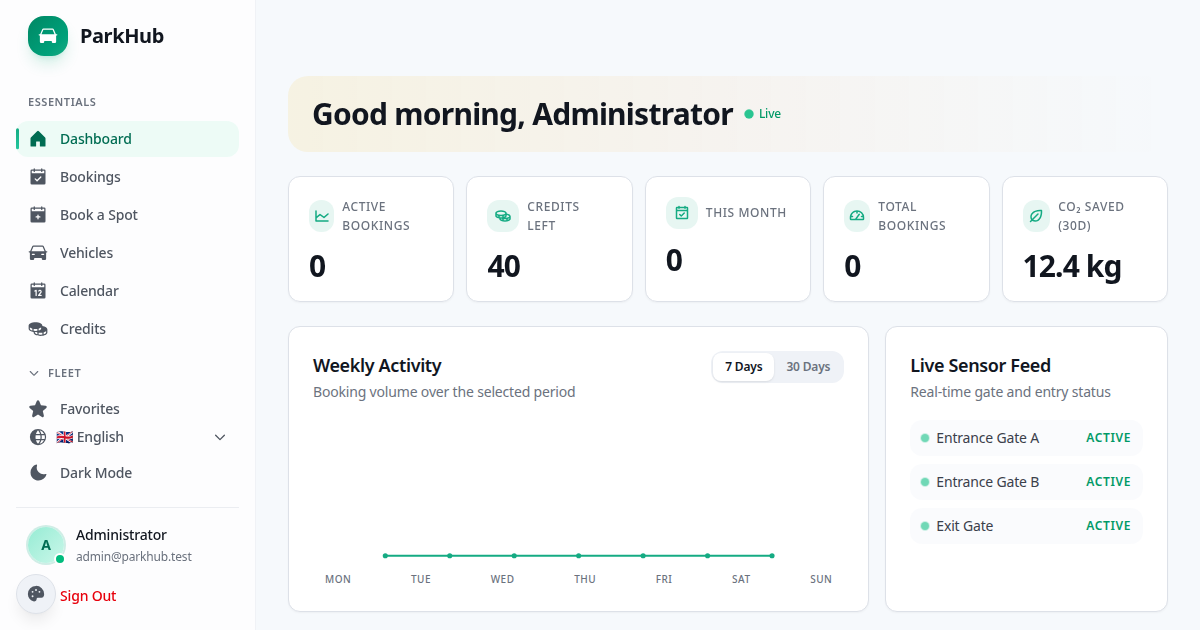
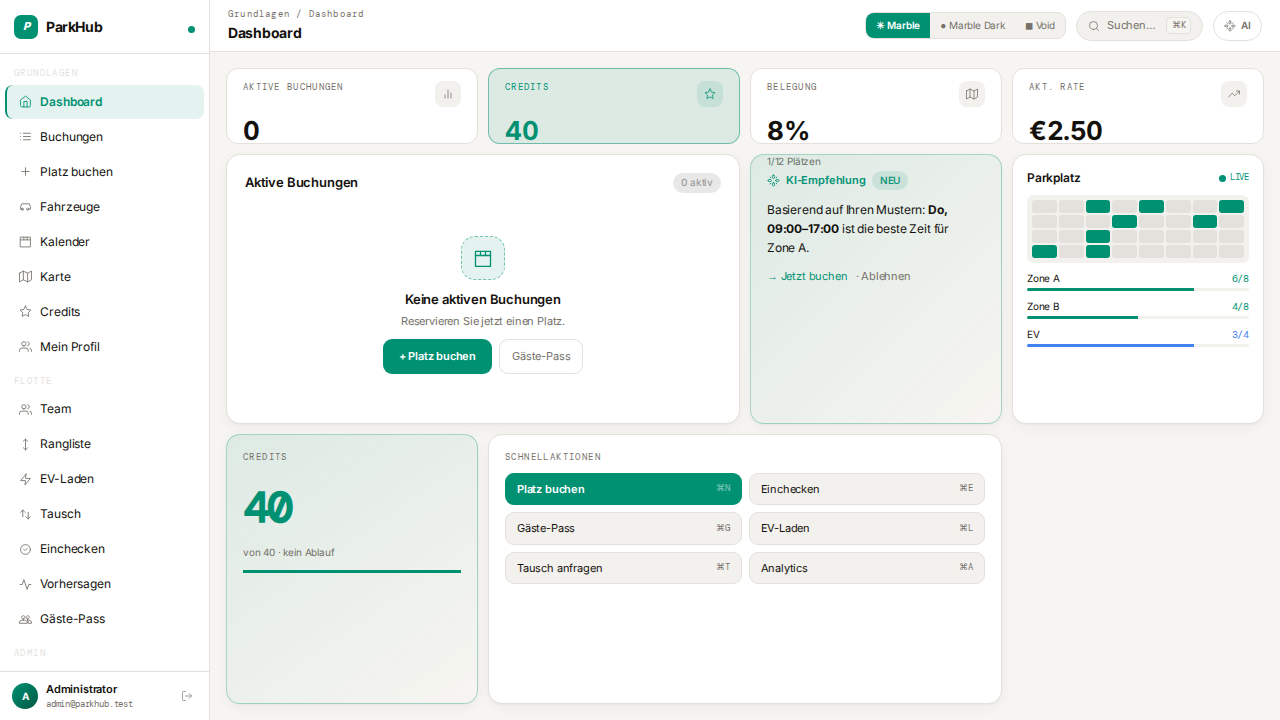
docs(site): refresh hero + OG screenshot to v5 design (#2)
dashboard-hero.png + og-preview.png now show the v5 design system
(Marble Light theme, bento Dashboard layout) shipped 2026-04-23 across
the Rust + PHP runtimes. Sourced from the parkhub-php
e2e/v5-visual.spec.ts CI baselines so they stay pixel-pinned to
ubuntu-latest renders.

Browser URL bar mock updated from /dashboard to /v5 to match the
shipped deep-link route.

Img alt text rewritten to describe the v5 surface (bento grid,
OKLCH theme tokens) rather than the retired v4 layout.

diff --git a/src/components/Landing.tsx b/src/components/Landing.tsx
@@ -128,12 +128,12 @@ export function Landing() {
                 <span key={i} style={{ width: 10, height: 10, borderRadius: '50%', background: c }}/>
               ))}
               <div style={{ flex: 1, textAlign: 'center', fontSize: 10, color: 'var(--theme-text-muted)', fontFamily: 'ui-monospace, Menlo, monospace' }}>
-                parkhub-rust-demo.onrender.com/dashboard
+                parkhub-rust-demo.onrender.com/v5
               </div>
             </div>
             <img
               src={asset('/dashboard-hero.png')}
-              alt="ParkHub dashboard — active bookings, credits, CO₂ saved, weekly activity, live sensor feed"
+              alt="ParkHub v5 Dashboard — bento layout, active booking stats, credits, weekly activity, OKLCH Marble theme"
               width={1200}
               height={630}
               loading="eager"
